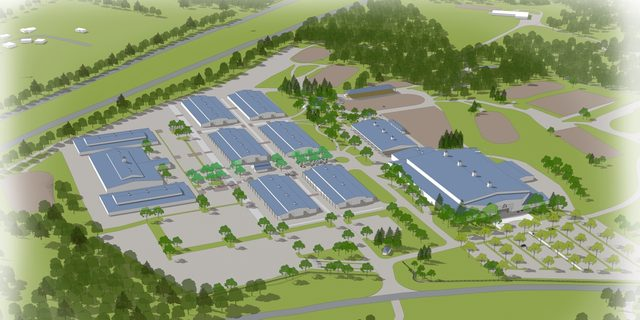
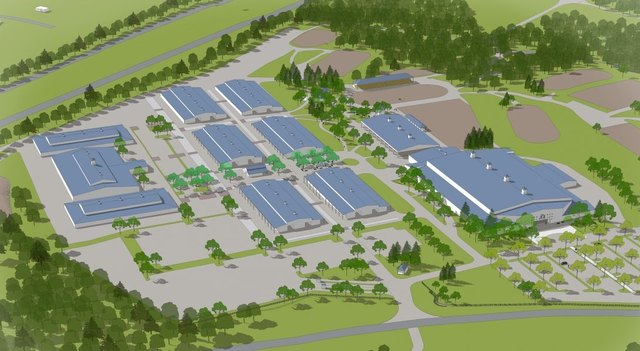
Virginia Horse Center: photographs before the renderings; renderings smaller; the aerial rendering trimmed
From Thomas's comments on the preview.

- A drawing may carry "rendering": true. A computer rendering is shown after the photographs, two to a line
  across three quarters of the page, as a plain picture; plans and sketches keep their place and size.
- The Virginia Horse Center's two renderings carry it, so the photographs now come first and larger.
- The aerial rendering's own file faded to white at its left, right and top edges. Those edges are trimmed
  (90, 105 and 45 pixels of 1,280 by 640); the picture is now 1,085 pixels wide.

Claude-Session: https://claude.ai/code/session_01MbVYwFRfJ6aJJtXkkhoJbz

diff --git a/templates/project.js b/templates/project.js
@@ -5,7 +5,8 @@ const { STORY_PARTS } = require('../lib/content');
 
 // One project page: the lead image; the title, the facts and the first part of the story side by side;
 // then the firm's drawings, as ink on the white of the page with no frame, each beside the photograph of what
-// was built from it where the drawing names one; and the rest of the story interleaved with the photographs.
+// was built from it where the drawing names one; the rest of the story interleaved with the photographs; and
+// last, smaller, any computer renderings ("rendering": true on a drawing), which give way to the photographs.
 module.exports = function projectPage(ctx, project, next) {
   const { u } = ctx;
 
@@ -74,11 +75,20 @@ module.exports = function projectPage(ctx, project, next) {
     </figure>`;
   };
 
-  // Lay the page out: first part beside the title; drawings; then photographs and parts in turn.
+  // Computer renderings stand after the photographs, two to a line and smaller, as plain pictures.
+  const renderings = project.drawings.filter((d) => d !== cover && d.rendering === true);
+  const renderingHtml = renderings.length ? `<div class="photo-row rendering-row${renderings.length === 1 ? ' is-single' : ''}">
+    ${renderings.map((d) => `<figure>
+      <div class="frame" data-photo>${picture(ctx, project, d, { sizes: '(min-width: 900px) 34vw, 100vw' })}</div>
+      ${caption(d)}
+    </figure>`).join('\n    ')}
+  </div>` : '';
+
+  // Lay the page out: first part beside the title; drawings; then photographs and parts in turn; then renderings.
   // When no drawing or photograph falls between the parts, the whole story reads as one column beside the title.
   const body = [];
-  const extraDrawings = project.drawings.filter((d) => d !== cover);
-  const opening = !groups.length && !extraDrawings.length ? parts.splice(0).join('\n      ') : (parts.shift() || '');
+  const extraDrawings = project.drawings.filter((d) => d !== cover && d.rendering !== true);
+  const opening = !groups.length && !extraDrawings.length && !renderings.length ? parts.splice(0).join('\n      ') : (parts.shift() || '');
   body.push(`<div class="project-opening">
     <div class="project-head">
       <p class="project-kind">${esc(project.type)}</p>
@@ -98,6 +108,7 @@ module.exports = function projectPage(ctx, project, next) {
     body.push(`<div class="project-text">${part}</div>`);
   });
   while (g < groups.length) body.push(groupHtml(groups[g++]));
+  if (renderingHtml) body.push(renderingHtml);
 
   const nextLink = next && next !== project ? `<nav class="project-next" aria-label="More work">
     <a href="${u(next.url)}"><span class="next-label">Next project</span> <span class="next-title">${esc(next.title)}</span></a>

diff --git a/static/assets/css/site.css b/static/assets/css/site.css
@@ -458,6 +458,13 @@ a.travel-mark:hover { color: var(--ink-strong); }
 @media (min-width: 56rem) {
   .photo-pair { grid-template-columns: 7fr 5fr; align-items: end; }
 }
+/* Computer renderings ("rendering": true on a drawing) follow the photographs, smaller: two to a line across three
+   quarters of the page, the first the wider, set to the right as the text is. The firm asked that photographs of
+   built work be more prominent than renderings, and that a rendering not be shown large. */
+@media (min-width: 56rem) {
+  .rendering-row { grid-template-columns: 7fr 5fr; align-items: end; width: 75%; margin-left: auto; }
+  .rendering-row.is-single { grid-template-columns: minmax(0, 1fr); width: 50%; }
+}
 
 .project-next {
   display: flex; flex-wrap: wrap; align-items: baseline; justify-content: space-between; gap: 1rem;

diff --git a/README.md b/README.md
@@ -56,7 +56,7 @@ The firm's hand drawings are the theme of the site, and its restraint is deliber
 
 Every drawing takes the sheet as its paper (`[data-sheet]` in the stylesheet: the drawing is multiplied into the page's color), so it reads as ink on the page with no rectangle around it. A drawing stands where a page begins, behind its heading, and a project shows its own plans between its opening and its photographs; a plan can stand beside the photograph of what was built from it (`built` in the drawing's entry). Process keeps one drawing, at its head, and the Dialogue diagram. Tried and taken out: a page-wide ground of traced linework (round 14), which turned a drawing into a pattern, and a drawing at the foot of every page (round 15), which read as decoration.
 
-Projects are listed two to a line: the picture, then the kind of project, its name, and its place. On the Work page the list is wider than the page's text, with a little space at the outer edges of the window and a narrow space between the pictures; under "Selected work" on the home page it stays inside the page's margins (the firm asked for the Work page's pictures larger in round 18 and for the home page's a little smaller in round 20). One project alone from edge to edge was tried in round 16 and read as too large and "too zoomed in", the more so because most of the files are 1,280 pixels wide. Every photograph on a project page, the lead photograph included, keeps the margins and its own proportions. No photograph crosses the whole window on a computer. `main` clips sideways overflow, so that nothing reaching past the margins can make the window scroll sideways.
+Projects are listed two to a line: the picture, then the kind of project, its name, and its place. On the Work page the list is wider than the page's text, with a little space at the outer edges of the window and a narrow space between the pictures; under "Selected work" on the home page it stays inside the page's margins (the firm asked for the Work page's pictures larger in round 18 and for the home page's a little smaller in round 20). One project alone from edge to edge was tried in round 16 and read as too large and "too zoomed in", the more so because most of the files are 1,280 pixels wide. Every photograph on a project page, the lead photograph included, keeps the margins and its own proportions. A computer rendering listed among a project's drawings (`"rendering": true`) stands after the photographs, two to a line across three quarters of the page, since the firm asked in round 21 that photographs be more prominent than renderings; the Virginia Horse Center's aerial rendering was trimmed of the white fade at its edges. No photograph crosses the whole window on a computer. `main` clips sideways overflow, so that nothing reaching past the margins can make the window scroll sideways.
 
 The home page opens as every other page does, with words at the left and a picture at the right: the firm's statement, and beside it the photographs of built work, which follow one another and are shown whole at two to one in seven of the page's twelve columns. They ran across the whole window until round 20, when the firm found them "way too big". A short account of the firm follows, over one of the firm's plans; it stood at the foot of the page, with links to People and Process, until the firm found it hidden there and the links a repeat of the header. Then come Selected work and a row of three plans. On a tablet or a phone the photograph comes first, from edge to edge, and the statement follows.
 

diff --git a/CLAUDE.md b/CLAUDE.md
@@ -89,7 +89,7 @@ python3 tools/prepare_photos.py content/projects/<slug> a.jpg b.jpg   # prepare 
    - `order` sorts projects, lowest first.
    - Each part of `story` is a list of paragraphs. A part may be left out. If the person gives one block of text and no four-part story, put it in `"description": ["..."]` and leave `story` out.
    - `reviewNote` is a note to the firm about text that still needs checking. It shows in previews only.
-   - `drawings` lists the firm's own plans and sketches for the project, prepared with the same tool into the same `photos/` folder and written the same way as photos (`file`, `alt`, `caption`). They appear large, as ink on the page, with no frame, between the opening and the story. Only drawings the firm made, or drawings made for the firm that it credits; put the credit in the caption ("Perspective by Peter Giraudeau."). A drawing on gray paper needs `"lift"` in its entry (255 divided by the brightness of its paper; `1.2` for the Oak Grove and Lime Kiln plans), or its paper shows as a gray rectangle. A drawing may also name the photograph of what was built from it, `"built": "03"`; the two then stand side by side, the drawing the wider, and the photograph leaves the rows below. Use it only when the photograph shows the very thing the drawing proposes, and never name the cover photograph.
+   - `drawings` lists the firm's own plans and sketches for the project, prepared with the same tool into the same `photos/` folder and written the same way as photos (`file`, `alt`, `caption`). They appear large, as ink on the page, with no frame, between the opening and the story. Only drawings the firm made, or drawings made for the firm that it credits; put the credit in the caption ("Perspective by Peter Giraudeau."). A drawing on gray paper needs `"lift"` in its entry (255 divided by the brightness of its paper; `1.2` for the Oak Grove and Lime Kiln plans), or its paper shows as a gray rectangle. A drawing may also name the photograph of what was built from it, `"built": "03"`; the two then stand side by side, the drawing the wider, and the photograph leaves the rows below. Use it only when the photograph shows the very thing the drawing proposes, and never name the cover photograph. A computer rendering among the drawings carries `"rendering": true`: it is shown after the photographs, smaller and as a plain picture, because the firm wants photographs of built work to be more prominent than renderings and does not want a rendering shown large. If a rendering's edges fade to white, trim them before preparing it; the firm disliked that haze.
    - `cover` names the image shown in the lists of projects and at the head of the project page. It may be a photograph or a drawing. A project that is a plan or a study may have drawings and no photographs.
    - `legacyUrls` lists the page's address on the old site, such as `"vmi.html"`, so old links keep working.
 5. **Write alt text for every photograph.** Say what is visible, in one plain sentence fragment under 200 characters: "Two tiers of limestone retaining walls planted with shrubs". No "photo of". No names of people. If you cannot tell what a photograph shows, ask.
